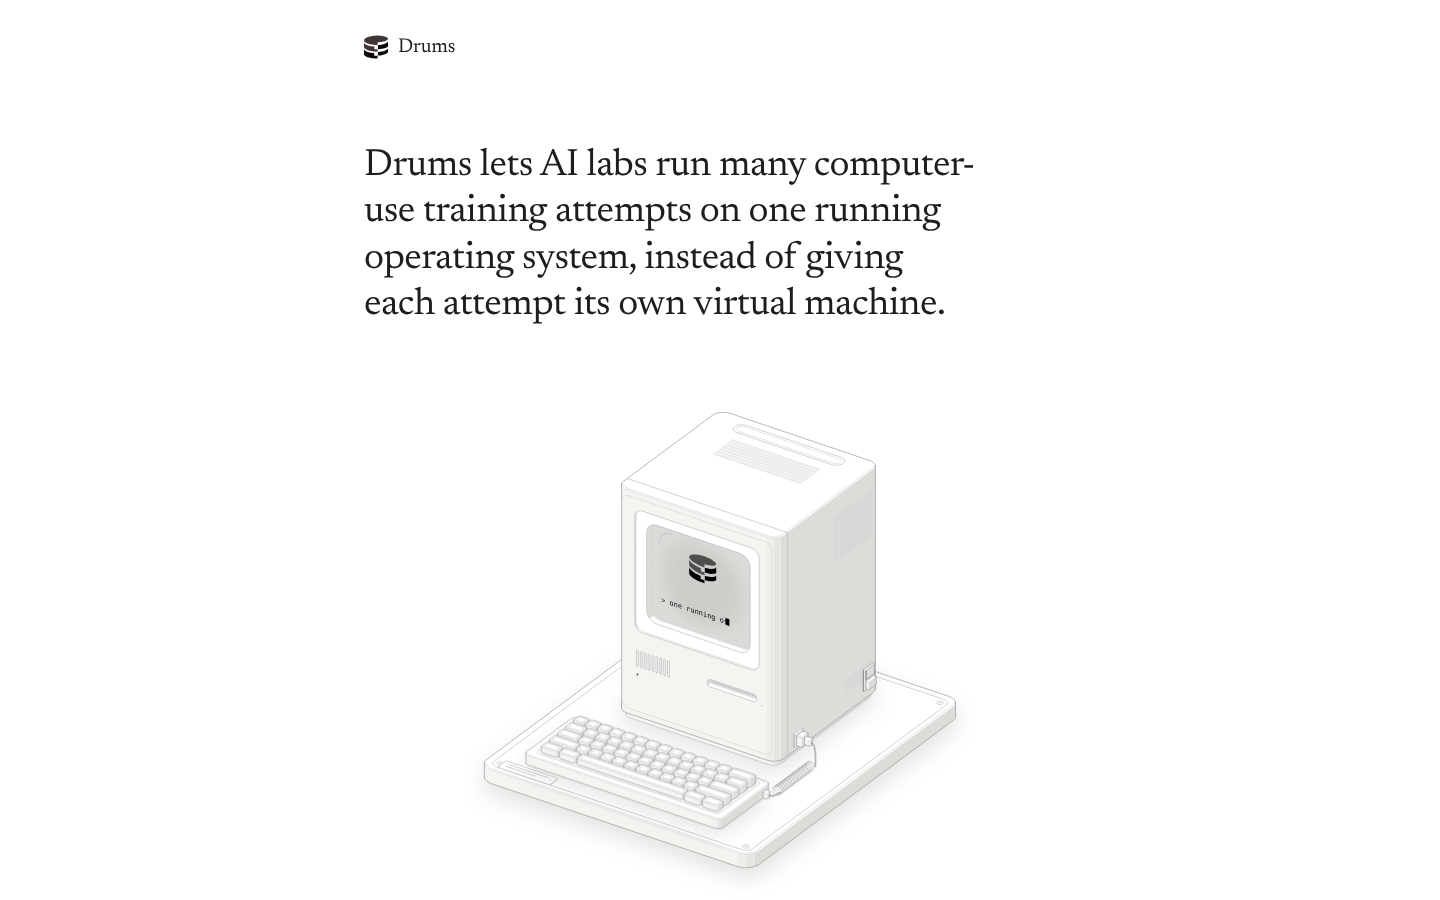
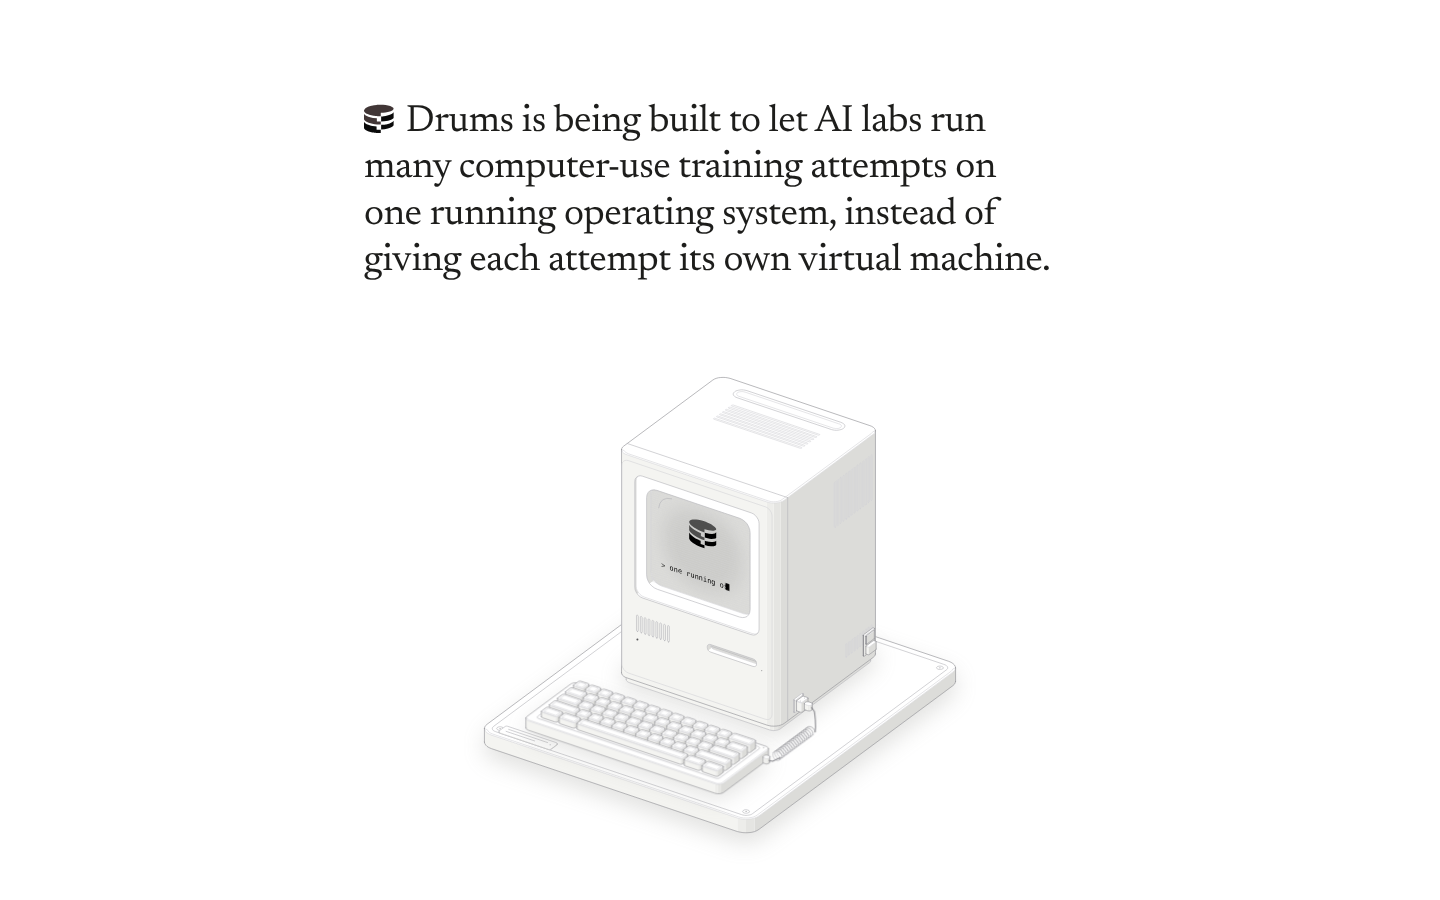
Preview: inline mark in opening line, drop hint and footer disclaimer, add company footer
Remove the standalone header, the visible typing hint and power button
and the prototype sentence. The Drums mark now leads the opening
statement. Add a plain copyright footer with links to the live privacy
policy and terms. Preview-only white html/body background, theme-color
and overscroll-behavior: none, scoped with :has(.dk).

diff --git a/src/app/preview/preview.css b/src/app/preview/preview.css
@@ -1,21 +1,23 @@
+/* Preview only: :has(.dk) matches while this page is mounted (it is server-rendered, so it applies from first paint)
+   and stops matching on navigation, so nothing leaks to the homepage or other routes. The root body is cream. */
+html:has(.dk), body:has(.dk) { background: #fff; overscroll-behavior: none; color-scheme: light; }
 .dk { background: #fff; color: #1d1d1b; min-height: 100vh; font-family: var(--font-serif), Georgia, "Times New Roman", serif; -webkit-font-smoothing: antialiased; }
 .dk a { color: inherit; }
 .dk :focus-visible { outline: 2px solid #1d1d1b; outline-offset: 3px; }
-.dk-head { display: flex; align-items: center; gap: 10px; max-width: 760px; margin: 0 auto; padding: 32px 24px 0; font-size: 20px; letter-spacing: -0.01em; }
-.dk-mark { width: 24px; height: 24px; }
-.dk main { max-width: 760px; margin: 0 auto; padding: 0 24px; }
-.dk-lede { font-weight: 400; font-size: clamp(26px, 4.4vw, 38px); line-height: 1.22; letter-spacing: -0.015em; margin: clamp(48px, 9vh, 96px) 0 0; max-width: 24em; text-wrap: balance; }
-.dk-desk { margin: clamp(28px, 5vh, 56px) auto 0; max-width: 640px; }
-.desk-hint { display: flex; justify-content: space-between; align-items: baseline; gap: 16px; margin-top: 18px; font-size: 15px; color: #6b6b66; }
-.desk-hint label { cursor: text; font-style: italic; }
-.desk-hint button { font: inherit; color: inherit; background: none; border: 0; padding: 10px 0 10px 12px; text-decoration: underline; text-underline-offset: 3px; cursor: pointer; min-height: 44px; }
+.dk main { max-width: 760px; margin: 0 auto; padding: clamp(56px, 11vh, 112px) 24px 0; }
+.dk-lede { font-weight: 400; font-size: clamp(26px, 4.4vw, 38px); line-height: 1.22; letter-spacing: -0.015em; margin: 0; max-width: 24em; text-wrap: balance; }
+.dk-mark { display: inline-block; width: 0.78em; height: 0.78em; margin-right: 0.32em; vertical-align: -0.06em; }
+.dk-desk { margin: clamp(32px, 6vh, 64px) auto 0; max-width: 640px; }
 .dk-body { margin-top: clamp(40px, 7vh, 72px); max-width: 32em; font-size: 20px; line-height: 1.6; }
 .dk-body p { margin: 0 0 1.1em; }
+.dk-body p:last-child { margin-bottom: 0; }
 .dk-link { text-decoration: underline; text-underline-offset: 4px; text-decoration-thickness: 1px; }
 .dk-link:hover { text-decoration-thickness: 2px; }
-.dk-foot { max-width: 760px; margin: clamp(64px, 12vh, 128px) auto 0; padding: 0 24px 40px; font-size: 14px; line-height: 1.6; color: #86867f; }
-.dk-foot p { margin: 0; max-width: 46em; }
+.dk-foot { max-width: 760px; margin: clamp(72px, 12vh, 128px) auto 0; padding: 0 24px 40px; font-size: 14px; line-height: 1.9; color: #86867f; }
+.dk-foot p { margin: 0; }
+.dk-foot a { text-decoration: none; }
+.dk-foot a:hover { color: #1d1d1b; text-decoration: underline; text-underline-offset: 3px; }
 @media (max-width: 640px) {
-  .dk-head, .dk main, .dk-foot { padding-left: 20px; padding-right: 20px; }
+  .dk main, .dk-foot { padding-left: 20px; padding-right: 20px; }
   .dk-body { font-size: 18px; }
 }

diff --git a/src/app/preview/page.tsx b/src/app/preview/page.tsx
@@ -1,11 +1,13 @@
-import type { Metadata } from "next";
+import type { Metadata, Viewport } from "next";
 import { Newsreader } from "next/font/google";
 import { DeskComputer } from "@/components/desk/DeskComputer";
 import { Mark } from "@/components/Mark";
-import { CAL_URL } from "@/lib/site";
+import { CAL_URL, COMPANY } from "@/lib/site";
 import "./preview.css";
 
 const serif = Newsreader({ subsets: ["latin"], variable: "--font-serif", weight: ["400", "500"], style: ["normal", "italic"] });
+
+export const viewport: Viewport = { themeColor: "#ffffff", colorScheme: "light" };
 
 export const metadata: Metadata = {
   title: "Drums",
@@ -16,14 +18,10 @@ export const metadata: Metadata = {
 export default function PreviewPage() {
   return (
     <div className={`dk ${serif.variable}`}>
-      <header className="dk-head">
-        <Mark className="dk-mark" />
-        <span>Drums</span>
-      </header>
-
       <main>
         <h1 className="dk-lede">
-          Drums lets AI labs run many computer-use training attempts on one running operating system, instead of giving each attempt its own virtual machine.
+          <Mark className="dk-mark" />
+          Drums is being built to let AI labs run many computer-use training attempts on one running operating system, instead of giving each attempt its own virtual machine.
         </h1>
 
         <section className="dk-desk" aria-label="A desk computer you can type on">
@@ -32,10 +30,9 @@ export default function PreviewPage() {
 
         <div className="dk-body">
           <p>
-            The attempts share the parts that never change, the operating system and its applications. Each one keeps its own files, browser session and
-            application state. The aim is to cut the hardware these runs need, and with it the cost.
+            The design shares the parts that never change, the operating system and its applications, while each attempt keeps its own files, browser
+            session and application state. The aim is to cut the hardware these runs need, and with it the cost.
           </p>
-          <p>Drums is a prototype. We have no measurements to share yet.</p>
           <p>
             <a className="dk-link" href={CAL_URL} target="_blank" rel="noopener noreferrer">
               Talk to us
@@ -45,12 +42,12 @@ export default function PreviewPage() {
       </main>
 
       <footer className="dk-foot">
+        <p>Copyright &copy; 2026 {COMPANY}</p>
         <p>
-          Review copy, not indexed. The desk computer is adapted from{" "}
-          <a href="https://github.com/wheresryan22/anatomy" target="_blank" rel="noopener noreferrer">
-            Anatomy
-          </a>{" "}
-          by Ryan (MIT license). No affiliation with any other company is implied.
+          <a href="https://drums.run/privacy">Privacy policy</a>
+        </p>
+        <p>
+          <a href="https://drums.run/terms">Terms of use</a>
         </p>
       </footer>
     </div>

diff --git a/src/components/desk/live.ts b/src/components/desk/live.ts
@@ -14,13 +14,12 @@ const SHIFTED: Record<string, string> = {
 interface Mount {
   root: HTMLElement;
   input: HTMLInputElement;
-  powerButton: HTMLButtonElement;
   status: HTMLElement;
   keys: string[];
   initial: string;
 }
 
-export function mountDesk({ root, input, powerButton, status, keys, initial }: Mount) {
+export function mountDesk({ root, input, status, keys, initial }: Mount) {
   const svg = root.querySelector("svg") as SVGSVGElement;
   const keyEls = keys.map((_, i) => svg.querySelector(`[data-key="${i}"]`) as SVGGElement);
   const textEl = svg.querySelector('[data-part="text"]') as SVGTextElement;
@@ -92,7 +91,6 @@ export function mountDesk({ root, input, powerButton, status, keys, initial }: M
     rockerOff.style.display = power ? "none" : "";
     led.style.opacity = power ? "" : "0.15";
     status.textContent = power ? "Computer on." : "Computer off.";
-    powerButton.textContent = power ? "Switch it off" : "Switch it on";
     write();
     run();
   }
@@ -196,12 +194,10 @@ export function mountDesk({ root, input, powerButton, status, keys, initial }: M
     }
     input.focus({ preventScroll: true });
   };
-  const onPower = () => { takeOver(); setPower(power ? 0 : 1); };
 
   input.addEventListener("input", onInput);
   input.addEventListener("keydown", onKey);
   svg.addEventListener("click", onClick);
-  powerButton.addEventListener("click", onPower);
   write();
   crtFrame();
   if (touring) run();
@@ -213,6 +209,5 @@ export function mountDesk({ root, input, powerButton, status, keys, initial }: M
     input.removeEventListener("input", onInput);
     input.removeEventListener("keydown", onKey);
     svg.removeEventListener("click", onClick);
-    powerButton.removeEventListener("click", onPower);
   };
 }

diff --git a/src/components/desk/DeskComputer.tsx b/src/components/desk/DeskComputer.tsx
@@ -38,12 +38,11 @@ const CSS = `
 export function DeskComputer() {
   const root = useRef<HTMLDivElement>(null);
   const input = useRef<HTMLInputElement>(null);
-  const power = useRef<HTMLButtonElement>(null);
   const status = useRef<HTMLSpanElement>(null);
 
   useEffect(() => {
-    if (!root.current || !input.current || !power.current || !status.current) return;
-    return mountDesk({ root: root.current, input: input.current, powerButton: power.current, status: status.current, keys: DESK.keys, initial: INITIAL_TEXT });
+    if (!root.current || !input.current || !status.current) return;
+    return mountDesk({ root: root.current, input: input.current, status: status.current, keys: DESK.keys, initial: INITIAL_TEXT });
   }, []);
 
   const s = DESK.screen;
@@ -63,15 +62,12 @@ export function DeskComputer() {
           autoCapitalize="off"
           autoCorrect="off"
           spellCheck={false}
+          aria-label="Type on the computer. Press Escape to switch the screen off or on."
           maxLength={20}
           defaultValue=""
           style={{ left: pct(s.left, WIDTH), top: pct(s.top, HEIGHT), width: pct(s.width, WIDTH), height: pct(s.height, HEIGHT) }}
         />
         <span className="desk-sr" role="status" aria-live="polite" ref={status} />
-      </div>
-      <div className="desk-hint">
-        <label htmlFor="desk-input">Type on the computer</label>
-        <button type="button" ref={power}>Switch it off</button>
       </div>
     </div>
   );
